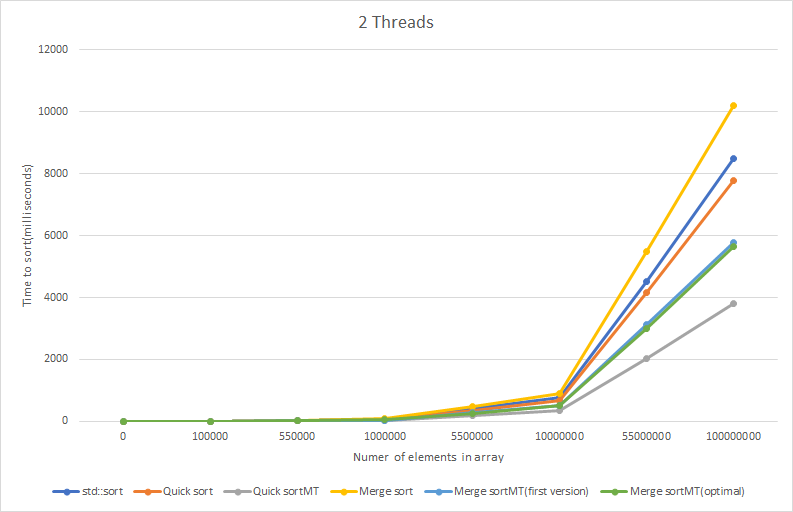
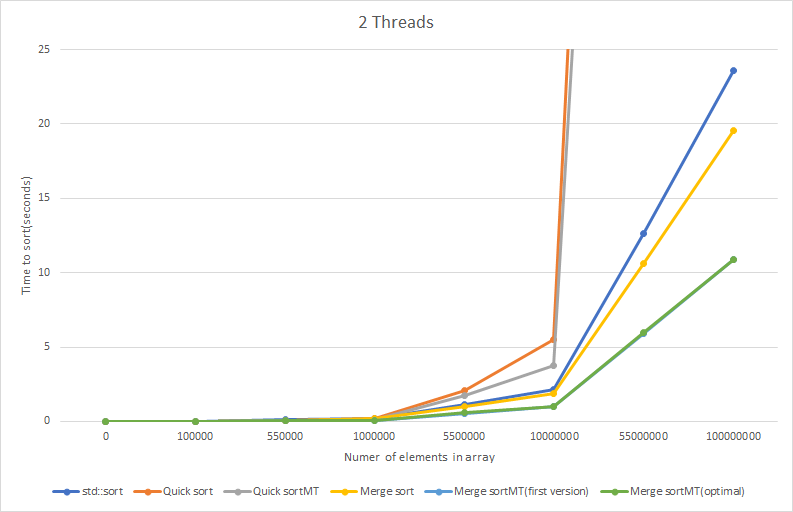
updated readme and screenshots

diff --git a/README.md b/README.md
@@ -2,7 +2,7 @@
 My implementations for multithreaded sorting in C++
 
 ## Introduction and technical specifications
-I had an idea, about modifying existing sorting algorithms like Merge sort and Quick sort. The idea is to add multithreading, to make them faster. Time and space complexity aren't changed, but it's actually made them faster. But i think it's good idea to show how much faster they became and benchmark them against their original implementations(and std::sort).
+I had an idea, about modifying existing sorting algorithms like Merge sort and Quick sort. The idea is to add multithreading, to make them faster. Time and space complexity aren't changed, but it's actually made them faster. But i think it's good idea to show how much faster they became and benchmark them against their original implementations and other sorting algorithms like `std::sort` and parallel `boost::block_indirect_sort`.
 
 ## How to use
 Since i have used only C++11 things, headers should be quite crossplatform(Checked on Windows, but should run on Mac and Linux).
@@ -30,16 +30,27 @@ Test machine is my laptop:D
 * GCC 8.1.0 (without explicit optimizations)
 
 For time measurement i will use `chrono` and it's `high_resolution_clock` in milliseconds.
-Test array contains numbers in descending order.
+Test arrays contain random numbers, each sorting function receives copy of the same test array.(in order to make fair comparison)
   
 ### 1 Thread
-![1 Thread](/Images/Benchmark1.png)
+<p align="center">
+  <img src="/Images/Benchmark1.png">
+</p>  
+
   
 ### 2 Threads
-![2 Threads](/Images/Benchmark2.png) 
+<p align="center">
+  <img src="/Images/Benchmark2.png">
+</p>
   
 ### 4 Threads
-![4 Threads](/Images/Benchmark4.png) 
+<p align="center">
+  <img src="/Images/Benchmark4.png">
+</p>
   
 ### 8 Threads
-![8 Threads](/Images/Benchmark8.png) 
+<p align="center">
+  <img src="/Images/Benchmark8.png">
+</p>
+
+## Conclusion
